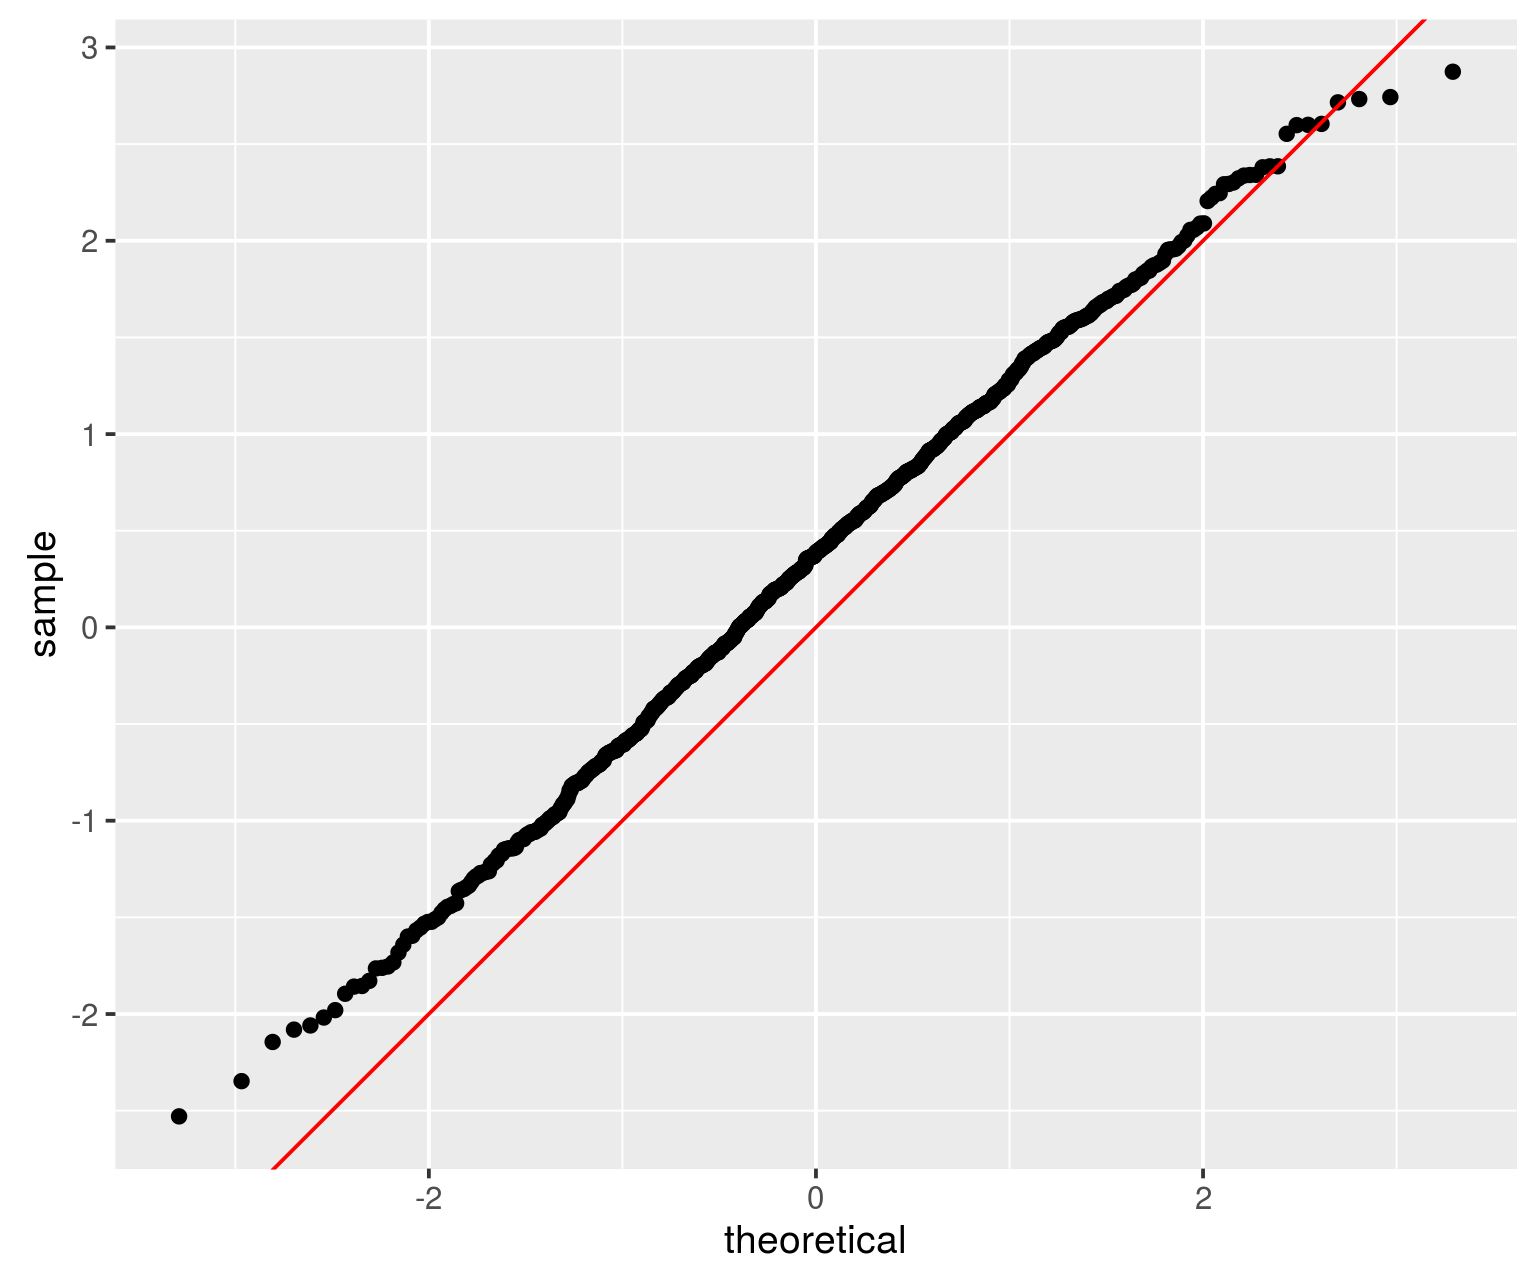
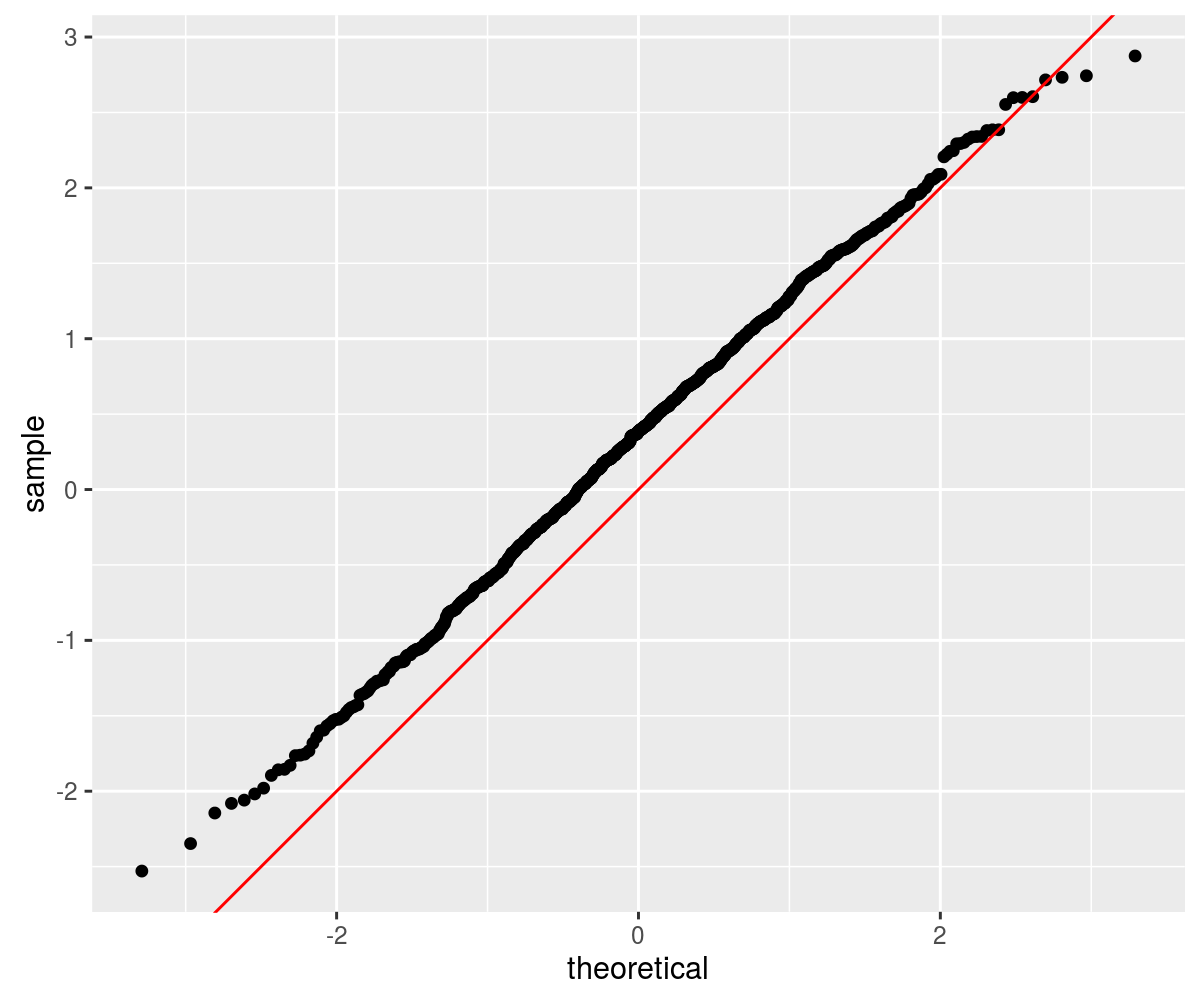
version news

diff --git a/README.md b/README.md
@@ -320,7 +320,7 @@ ph <- qplot(sample = as.numeric(retv), stat = "qq") +
 print(ph)
 ```
 
-![plot of chunk matracer](github_extra/figure/matracer-1.png) 
+<img src="github_extra/figure/matracer-1.png" title="plot of chunk matracer" alt="plot of chunk matracer" width="600px" height="500px" />
 
 # Maximum eigenvalue of the covariance matrix
 
@@ -393,7 +393,7 @@ ph <- qplot(sample = as.numeric(retv), stat = "qq") +
 print(ph)
 ```
 
-![plot of chunk cosym_mo](github_extra/figure/cosym_mo-1.png) 
+<img src="github_extra/figure/cosym_mo-1.png" title="plot of chunk cosym_mo" alt="plot of chunk cosym_mo" width="600px" height="500px" />
 
 Why the bias? There are a number of possibilities:
 
